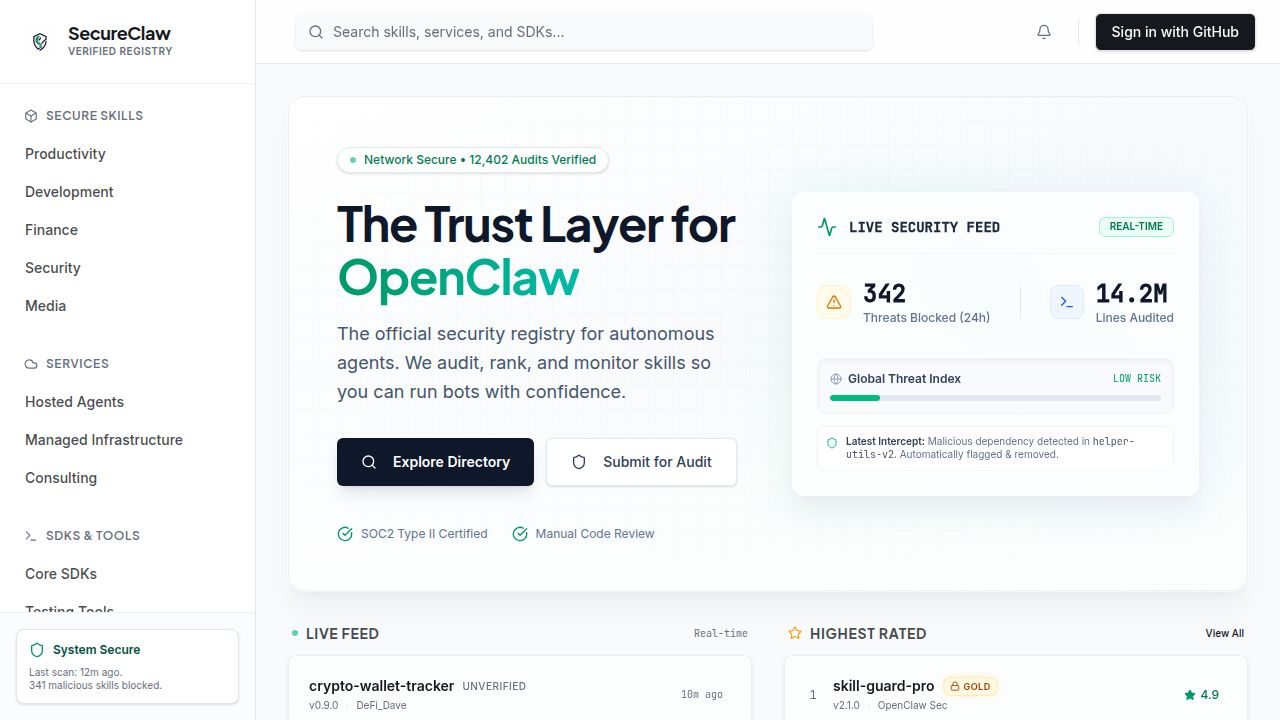
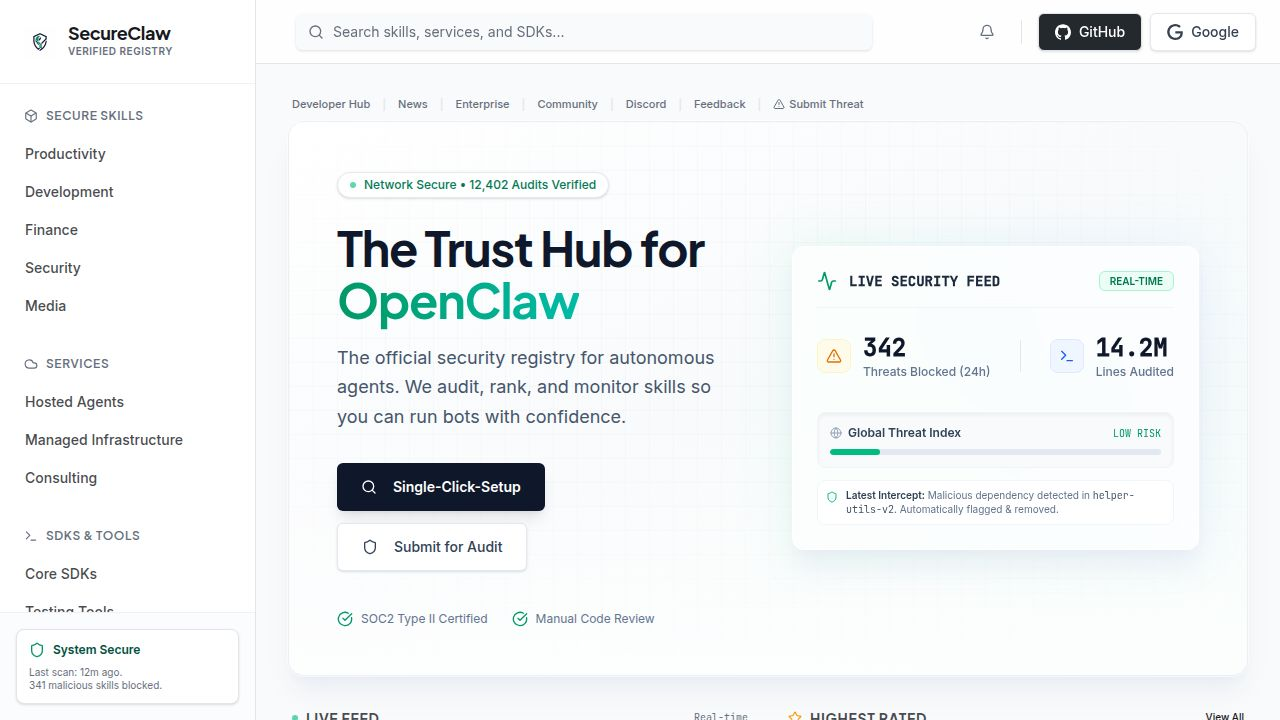
Update navigation links and alert submission button
Add "News" and "Enterprise" to quick links, rename "Submit Threat Alert" to "Submit Threat", and adjust styling for hover effects.

Replit-Commit-Author: Agent
Replit-Commit-Session-Id: 0041754e-a43b-4e2b-b3e2-0354bca99791
Replit-Commit-Checkpoint-Type: full_checkpoint
Replit-Commit-Event-Id: af482a16-9455-4f30-8904-4d618cfb65be
Replit-Commit-Screenshot-Url: https://storage.googleapis.com/screenshot-production-us-central1/12293c62-324d-4eea-8247-47e63ec0668f/0041754e-a43b-4e2b-b3e2-0354bca99791/pdgcx0r
Replit-Helium-Checkpoint-Created: true

diff --git a/client/src/pages/home.tsx b/client/src/pages/home.tsx
@@ -98,15 +98,19 @@ export default function Home() {
         <div className="flex items-center gap-1 text-[11px] text-muted-foreground font-medium mb-2 px-1 relative z-20">
           <a href="#" className="hover:text-primary transition-colors hover:underline">Developer Hub</a>
           <span className="text-border mx-2">|</span>
+          <a href="#" className="hover:text-primary transition-colors hover:underline">News</a>
+          <span className="text-border mx-2">|</span>
+          <a href="#" className="hover:text-primary transition-colors hover:underline">Enterprise</a>
+          <span className="text-border mx-2">|</span>
           <a href="#" className="hover:text-primary transition-colors hover:underline">Community</a>
           <span className="text-border mx-2">|</span>
           <a href="#" className="hover:text-primary transition-colors hover:underline">Discord</a>
           <span className="text-border mx-2">|</span>
           <a href="#" className="hover:text-primary transition-colors hover:underline">Feedback</a>
           <span className="text-border mx-2">|</span>
-          <a href="#" className="text-destructive/80 hover:text-destructive transition-colors hover:underline flex items-center gap-1">
-            <AlertTriangle className="w-3 h-3" />
-            Submit Threat Alert
+          <a href="#" className="hover:text-destructive transition-colors hover:underline flex items-center gap-1 group">
+            <AlertTriangle className="w-3 h-3 text-muted-foreground group-hover:text-destructive transition-colors" />
+            Submit Threat
           </a>
         </div>
 
